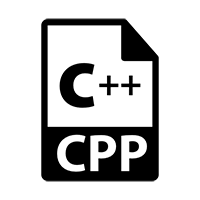
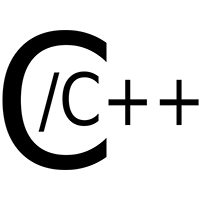
updated C/C++ image

diff --git a/projects.html b/projects.html
@@ -77,7 +77,7 @@ Released   : 20111121
 						</div>
 					</div>
 					<div class="post">
-						<h2 class="title">C++</h2>
+						<h2 class="title">C/C++</h2>
 						<p class="meta">&nbsp;&bull;&nbsp;Posted by <a href="about.html">Tim M. Lael</a> on May 21, 2017
 							&nbsp;&bull;&nbsp;</p>
 						<div class="entry">
